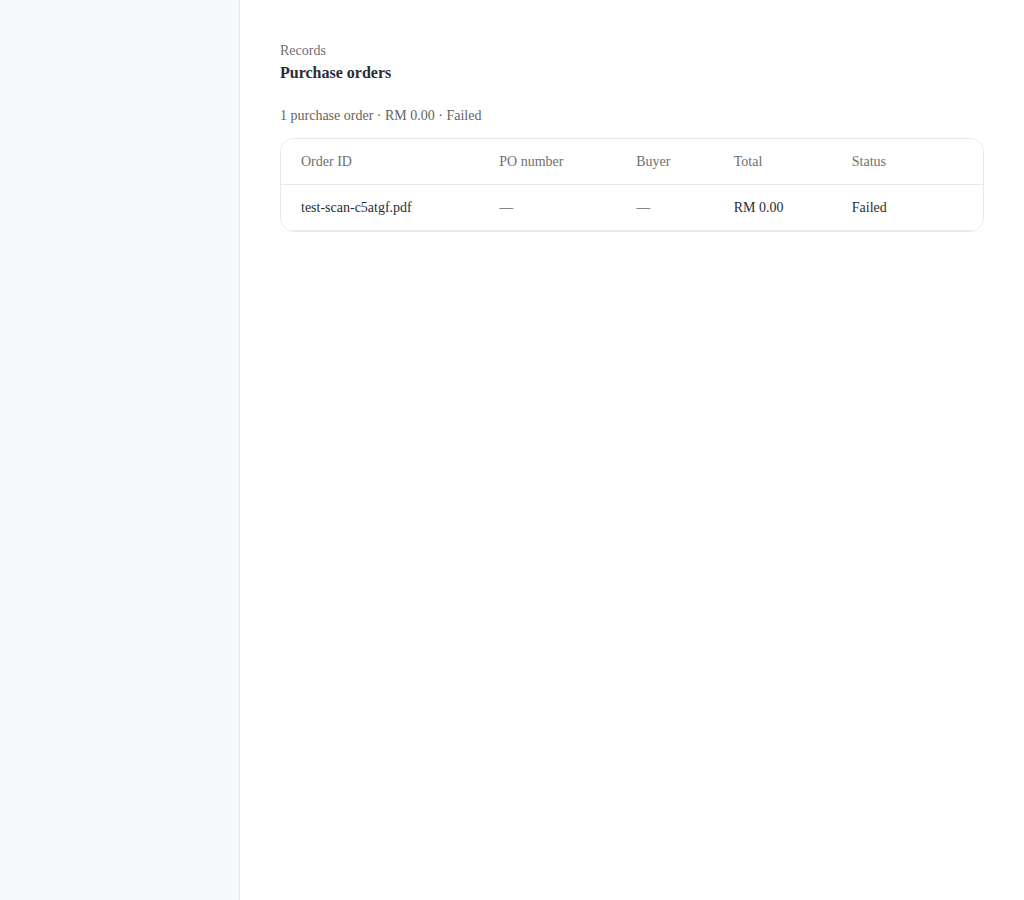
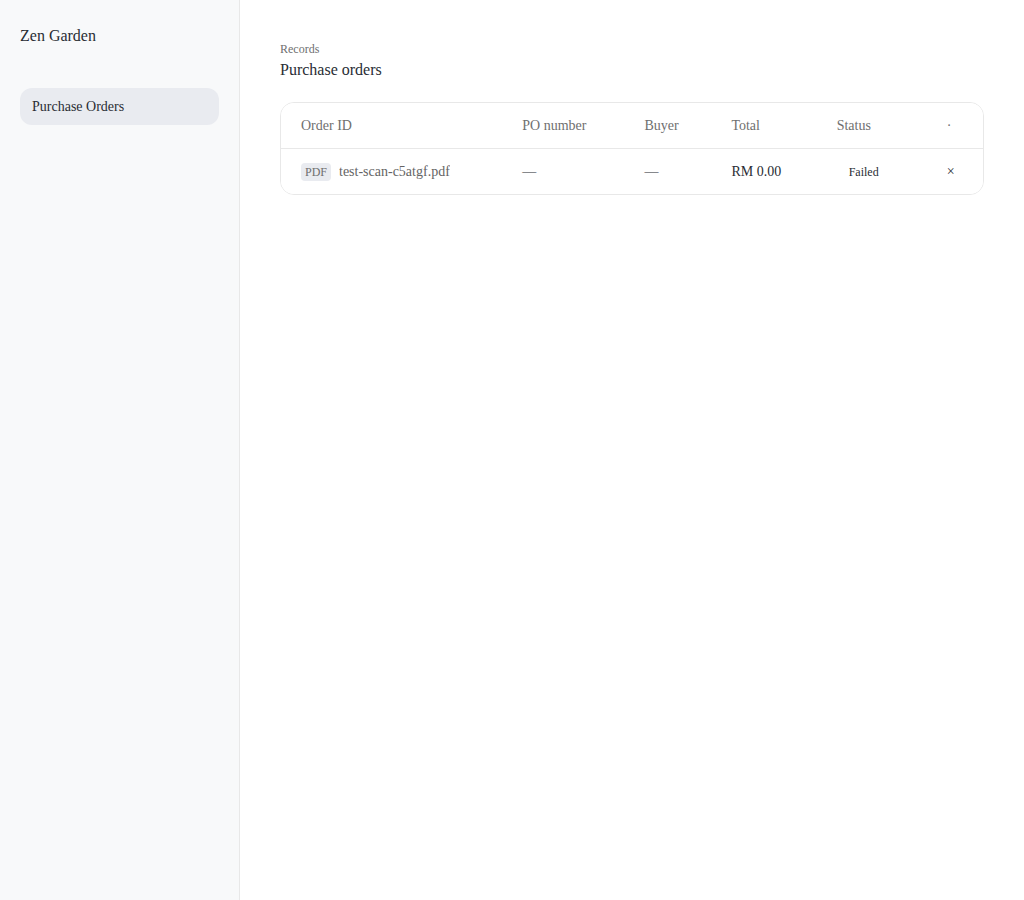
fix: keep Status on screen and fade columns still off the card (z8v9xngduu)
Expected delivery stays on the 1280 failed list and drops only while the
card is under 56rem, where it was pushing Status past the edge. A long
file name caps at 10rem. The right-edge fade uses surface-soft so it
shows on a white cell.

diff --git a/src/components/purchase-orders/PoTable.tsx b/src/components/purchase-orders/PoTable.tsx
@@ -214,9 +214,10 @@ export function poColumns({
             // beside the file badge, is what tells two of them apart — shown
             // as the file it is, never in the PO number column. Capped, or
             // the filename becomes the column width and pushes Status off
-            // the card (measured: an uncapped name added ~370px).
+            // the card. `max-w-40` (10rem) still shows test-scan-c5atgf.pdf
+            // in full; `max-w-48` left 19px of overflow at 1280.
             <span
-              className="block min-w-0 max-w-56 truncate text-ink-secondary"
+              className="block min-w-0 max-w-40 truncate text-ink-secondary"
               title={`Uploaded file ${row.fileName} — no Order ID`}
             >
               {row.fileName}
@@ -270,9 +271,8 @@ export function poColumns({
     {
       key: "poDate",
       header: "PO date",
-      // The card at 1024 (sidebar up) is ~700px. Date, items and source
-      // come back once that card clears `md`; below it they would push
-      // Status past the edge.
+      // Date and items fit once the card clears 48rem. Below that they
+      // push Status past the edge (the 1024 window's card is ~700px).
       showAt: "md",
       defaultDir: "desc",
       cell: (row) =>
@@ -285,10 +285,10 @@ export function poColumns({
     {
       key: "deliveryDate",
       header: "Expected delivery",
-      // The widest header. It fits once the card clears 64rem — a ~1344px
-      // window with the sidebar, and every wider one — and not in the ~960px
-      // card a 1280px window leaves. Blank on a failed scan either way.
-      showAt: "lg",
+      // On the 1280 failed list the card is ~960px and this header sits
+      // fully inside it. Below 56rem (a ~1100px window, card ~780px) the
+      // same header pushes Status past the edge, so it waits.
+      showAt: "wide",
       // Soonest first: the order about to leave is the one to look at.
       defaultDir: "asc",
       cell: (row) =>
@@ -327,7 +327,10 @@ export function poColumns({
     {
       key: "source",
       header: "Source",
-      showAt: "md",
+      // The first column cut off at 1280: with the file badge in Order ID,
+      // Source starts under the card edge. It returns once the card clears
+      // 64rem (a ~1440px window).
+      showAt: "lg",
       // Deliberately not mobileHidden. Card mode drops the two avatar columns
       // as noise, but where an order came from is the one thing this column
       // exists to say.

diff --git a/src/components/portal/DataTable.tsx b/src/components/portal/DataTable.tsx
@@ -31,12 +31,12 @@ export type Column<Row> = {
   mobileHidden?: boolean;
   /**
    * Leave this column out of the desktop table until the card itself is at
-   * least this wide (`--container-table-md/lg/xl`: 48rem / 64rem / 90rem).
+   * least this wide (`--container-table-md/wide/lg/xl`: 48 / 56 / 64 / 90rem).
    * That is the card, not the viewport — the sidebar takes 240px, so a
    * 1280px window is a ~960px card. `@md` is not this: it is Tailwind's
    * 28rem container scale.
    */
-  showAt?: "md" | "lg" | "xl";
+  showAt?: "md" | "wide" | "lg" | "xl";
   cell: (row: Row) => ReactNode;
 };
 
@@ -47,6 +47,7 @@ export type Column<Row> = {
  */
 export function columnShowClass(showAt: Column<never>["showAt"]): string {
   if (showAt === "md") return "@max-table-md:hidden";
+  if (showAt === "wide") return "@max-table-wide:hidden";
   if (showAt === "lg") return "@max-table-lg:hidden";
   if (showAt === "xl") return "@max-table-xl:hidden";
   return "";
@@ -422,7 +423,9 @@ export function DataTable<Row extends { id: string }>({
 
         {/* Fades, not scrollbars: a scrollbar on a trackpad is invisible until
             you already know to scroll. Each one only appears while there is
-            something on that side to reach. */}
+            something on that side to reach. The right fade is surface-soft,
+            not canvas: canvas is white, and a white wash on a white cell
+            does not read as an edge. */}
         {clipped.left ? (
           <div
             aria-hidden
@@ -432,7 +435,7 @@ export function DataTable<Row extends { id: string }>({
         {clipped.right ? (
           <div
             aria-hidden
-            className="pointer-events-none absolute inset-y-px right-px z-30 w-xl rounded-r-lg bg-linear-to-l from-canvas to-transparent"
+            className="pointer-events-none absolute inset-y-px right-px z-30 w-xl rounded-r-lg bg-linear-to-l from-surface-soft from-40% to-transparent"
           />
         ) : null}
       </div>

diff --git a/src/components/purchase-orders/PoTable.test.tsx b/src/components/purchase-orders/PoTable.test.tsx
@@ -55,14 +55,16 @@ describe("failed-upload columns stay inside the card", () => {
     }
   });
 
-  it("drops date, items and source until the card clears md", () => {
+  it("keeps expected delivery on the 1280 card and drops it under wide", () => {
+    // Ground truth at 1280 shows this header fully inside the card.
+    // A ~1100px window's card is under 56rem, where the header clips Status.
+    expect(showAt.deliveryDate).toBe("wide");
     expect(showAt.poDate).toBe("md");
     expect(showAt.itemCount).toBe("md");
-    expect(showAt.source).toBe("md");
   });
 
-  it("drops expected delivery until the card clears lg", () => {
-    expect(showAt.deliveryDate).toBe("lg");
+  it("drops source until the card clears lg — it is the column cut at 1280", () => {
+    expect(showAt.source).toBe("lg");
   });
 
   it("drops the two avatar columns until the card clears xl", () => {
@@ -77,7 +79,7 @@ describe("failed-upload columns stay inside the card", () => {
     const markup = renderToStaticMarkup(
       <>{columns[0].cell(draft({ fileName: name }))}</>,
     );
-    expect(markup).toContain("max-w-56");
+    expect(markup).toContain("max-w-40");
     expect(markup).toContain("truncate");
     expect(markup).toContain(`title="Uploaded file ${name} — no Order ID"`);
     expect(markup).toContain(name);
@@ -92,6 +94,7 @@ describe("table scroll helpers", () => {
   it("hides a column until the named card width", () => {
     expect(columnShowClass(undefined)).toBe("");
     expect(columnShowClass("md")).toBe("@max-table-md:hidden");
+    expect(columnShowClass("wide")).toBe("@max-table-wide:hidden");
     expect(columnShowClass("lg")).toBe("@max-table-lg:hidden");
     expect(columnShowClass("xl")).toBe("@max-table-xl:hidden");
   });

diff --git a/src/app/globals.css b/src/app/globals.css
@@ -287,8 +287,9 @@
    * `table-xl` sits past `--container-page`, so a column that needs it
    * stays off this list rather than forcing a scrollbar on every screen.
    */
-  --container-table-md: 48rem; /* 768px card */
-  --container-table-lg: 64rem; /* 1024px card */
+  --container-table-md: 48rem; /* 768px card — PO date and items */
+  --container-table-wide: 56rem; /* 896px card — expected delivery still leaves Status inside */
+  --container-table-lg: 64rem; /* 1024px card — source */
   --container-table-xl: 90rem; /* 1440px card — wider than the page column */
   /* The auth card — sign in, access requested, forgot, reset, change password. */
   --container-auth-card: 480px;

diff --git a/context/current-feature.md b/context/current-feature.md
@@ -6,15 +6,15 @@ measured 1159px, so Source sat under the edge and Uploaded by, Confirmed
 by and the row action were past a horizontal scrollbar. A failed scan's
 file name in Order ID has no cap, so a long one pushed Status off as well.
 
-The card now contains the scroll (`min-w-0` and `@container` on
-`DataTable`). Order ID stays sticky. A file name truncates at `max-w-56`
-with the full name on `title`. Columns that do not fit the card drop until
-it is wide enough: date, items and source from 48rem, expected delivery
-from 64rem, the two avatar columns from 90rem — past `--container-page`,
-so they stay on the order rather than forcing a scrollbar on every screen.
-Measured with the production stylesheet, sidebar on: at 768, 1024, 1280
-and 1440 the failed row's table no longer scrolls inside itself and the
-page does not scroll either. Below `md` the list is still the card.
+The card contains the scroll (`min-w-0` and `@container` on `DataTable`).
+Order ID stays sticky. A file name truncates at `max-w-40` with the full
+name on `title`. Columns drop until the card can hold them: PO date and
+items from 48rem, expected delivery from 56rem (it is fully on screen at
+1280, and it clips Status on a ~780px card), source from 64rem, the two
+avatar columns from 90rem — past `--container-page`, so they stay on the
+order. When anything is still past the edge, the right side fades with
+`from-surface-soft` (a canvas fade is white on white). Below `md` the
+list is still the card.
 
 The review screen (`/review/[id]`, including Try again) is untouched.
 

diff --git a/context/lessons.md b/context/lessons.md
@@ -139,10 +139,11 @@ mounted the entire time; it never flipped to on.
 **Rule.** A nowrap table is as wide as its columns. When that is wider than
 the card, drop the columns that do not identify the row until the card can
 hold the rest. What is still off-screen scrolls *inside* the card, the
-identifier stays pinned, and the edge that has more fades. A header cut at
-the card edge is not a column. The width that matters is the card's, not
-the viewport's: `@md` in this project is Tailwind's 28rem container scale,
-not a 768px screen.
+identifier stays pinned, and the edge that has more fades. A fade painted
+`from-canvas` on a white cell is invisible — use a token that is not the
+cell's own background. A header cut at the card edge is not a column. The
+width that matters is the card's, not the viewport's: `@md` in this project
+is Tailwind's 28rem container scale, not a 768px screen.
 
 **The case (2026-09-23).** Purchase orders filtered to Failed, at 1280 with
 the sidebar. Twelve columns measured 1159px in a 958px card. Source was the
